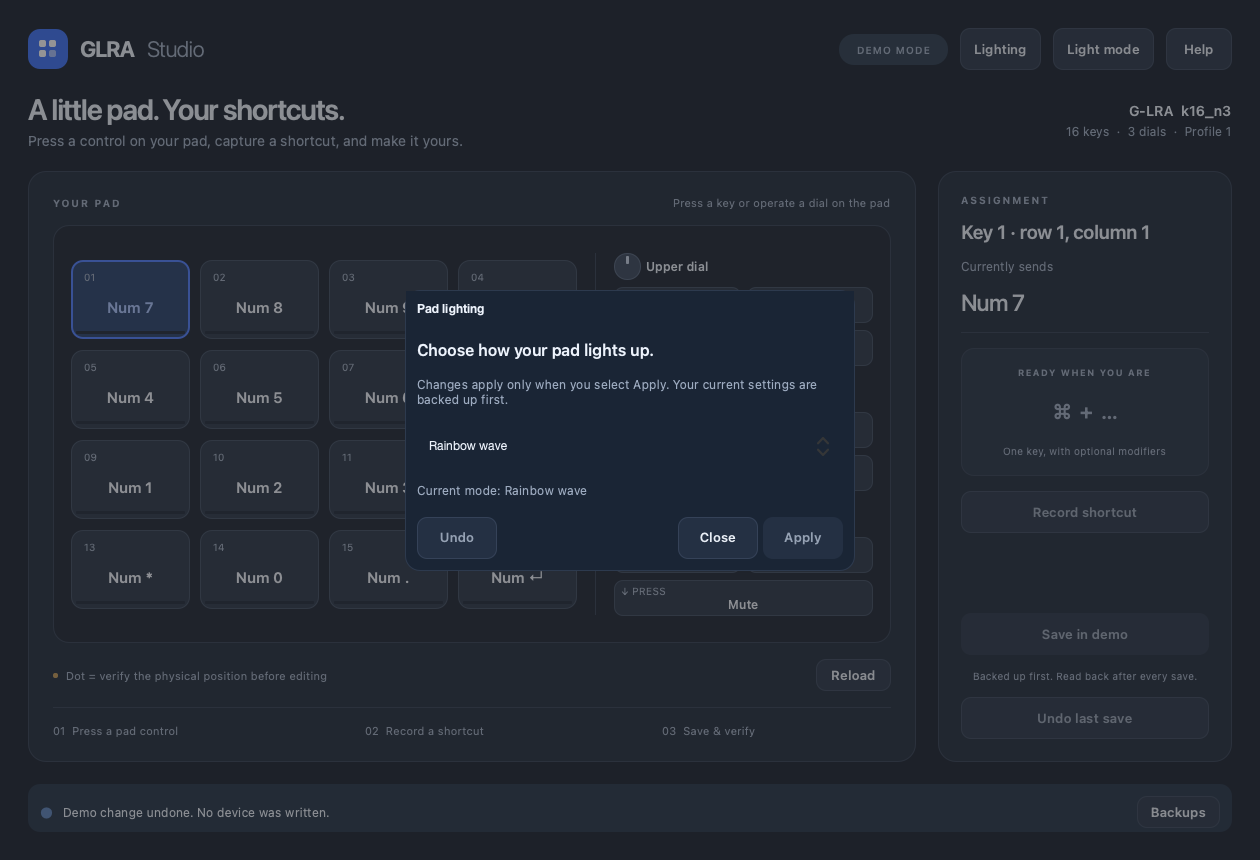
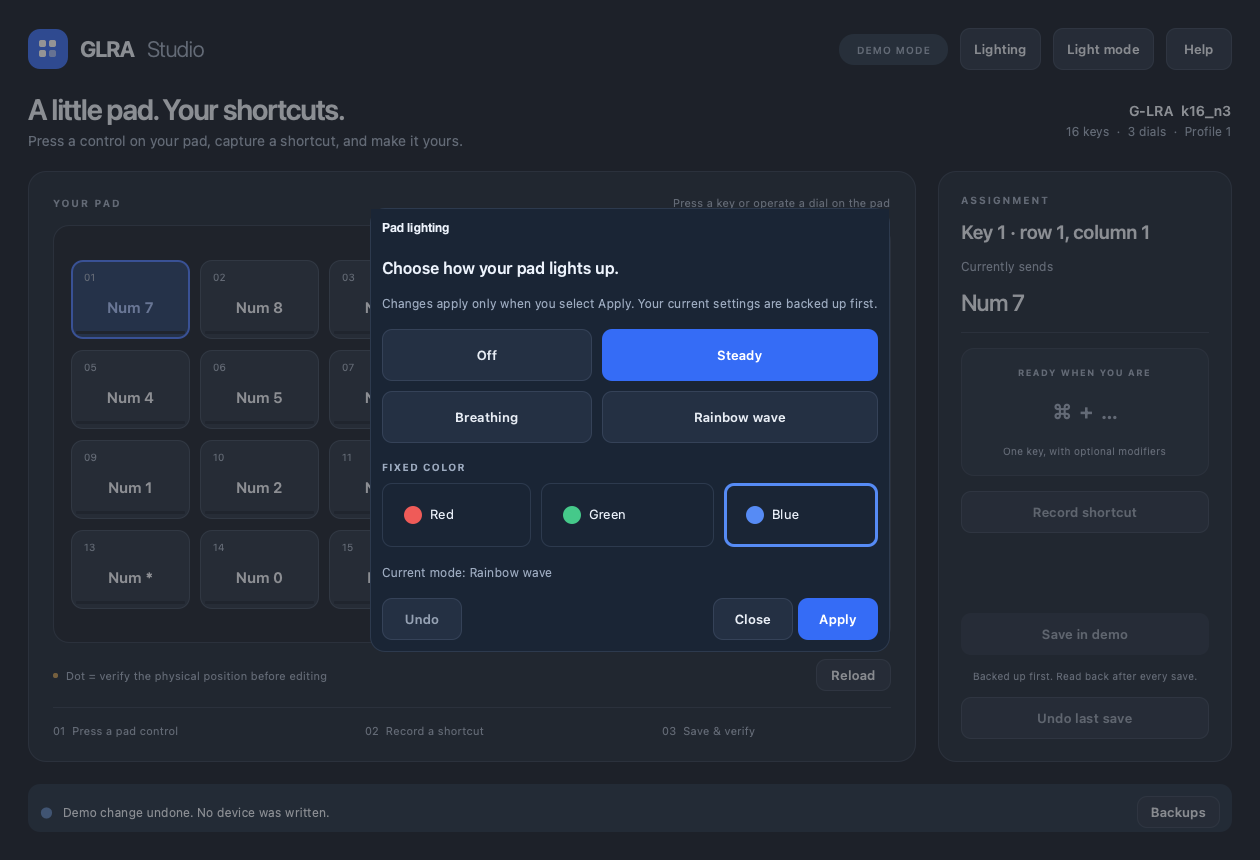
Use lighting mode buttons and add verified fixed-color controls

diff --git a/macropad/qml/Main.qml b/macropad/qml/Main.qml
@@ -168,12 +168,15 @@ ApplicationWindow {
     }
     Dialog {
         id: lightingDialog; objectName: "lightingDialog"; parent: Overlay.overlay
-        anchors.centerIn: parent; width: 450; modal: true; title: "Pad lighting"
+        anchors.centerIn: parent; width: 520; modal: true; title: "Pad lighting"
         property string loadedValue: ""
+        property int draftMode: -1
+        property int draftColor: -1
         function syncMode() {
             if (loadedValue !== root.data.lightValue) {
                 loadedValue = root.data.lightValue
-                lightMode.currentIndex = lightMode.indexOfValue(root.data.lightMode)
+                draftMode = root.data.lightMode
+                draftColor = root.data.lightColor
             }
         }
         visible: root.data.lightOpen; closePolicy: Popup.NoAutoClose
@@ -183,13 +186,51 @@ ApplicationWindow {
             spacing: 18
             Text { text: "Choose how your pad lights up."; color: root.ink; font.pixelSize: 16; font.weight: Font.DemiBold }
             Text { text: "Changes apply only when you select Apply. Your current settings are backed up first."; color: root.muted; font.pixelSize: 12; wrapMode: Text.WordWrap; Layout.fillWidth: true }
-            ComboBox {
-                id: lightMode; objectName: "lightingMode"; Layout.fillWidth: true
-                model: [{value: 0, name: "Off"}, {value: 1, name: "Steady"}, {value: 2, name: "Breathing"}, {value: 4, name: "Rainbow wave"}]
-                textRole: "name"; valueRole: "value"
-                currentIndex: -1
-                enabled: root.data.lightValue !== "" && !root.data.busy && root.data.writable
-                palette.text: root.ink; palette.buttonText: root.ink; palette.base: root.surface; palette.button: root.surface
+            GridLayout {
+                columns: 2; columnSpacing: 10; rowSpacing: 10; Layout.fillWidth: true
+                Repeater {
+                    model: [{value: 0, name: "Off"}, {value: 1, name: "Steady"}, {value: 2, name: "Breathing"}, {value: 4, name: "Rainbow wave"}]
+                    StudioButton {
+                        required property var modelData
+                        objectName: "lightingMode" + modelData.value
+                        text: modelData.name; dark: root.dark; primary: lightingDialog.draftMode === modelData.value
+                        Layout.fillWidth: true; implicitHeight: 52
+                        enabled: root.data.lightValue !== "" && !root.data.busy && root.data.writable
+                        onClicked: lightingDialog.draftMode = modelData.value
+                    }
+                }
+            }
+            ColumnLayout {
+                visible: lightingDialog.draftMode === 1; Layout.fillWidth: true; spacing: 10
+                Text { text: "FIXED COLOR"; color: root.muted; font.pixelSize: 10; font.weight: Font.Bold; font.letterSpacing: 1 }
+                RowLayout {
+                    Layout.fillWidth: true; spacing: 10
+                    Repeater {
+                        model: [{name: "Red", color: "#ef5b58"}, {name: "Green", color: "#45c98a"}, {name: "Blue", color: "#568bf5"}]
+                        Button {
+                            id: colorButton
+                            required property var modelData
+                            required property int index
+                            objectName: "lightingColor" + index
+                            Layout.fillWidth: true; implicitHeight: 64; focusPolicy: Qt.NoFocus
+                            enabled: root.data.lightValue !== "" && !root.data.busy && root.data.writable
+                            Accessible.name: modelData.name
+                            onClicked: lightingDialog.draftColor = index
+                            background: Rectangle {
+                                radius: 10; color: root.surface
+                                border.width: lightingDialog.draftColor === colorButton.index ? 3 : 1
+                                border.color: lightingDialog.draftColor === colorButton.index ? colorButton.modelData.color : root.line
+                            }
+                            contentItem: Row {
+                                spacing: 8
+                                leftPadding: 14; topPadding: 17
+                                Rectangle { width: 18; height: 18; radius: 9; color: colorButton.modelData.color }
+                                Text { text: colorButton.modelData.name; color: root.ink; font.pixelSize: 13 }
+                            }
+                        }
+                    }
+                }
+                Text { visible: lightingDialog.draftColor < 0; text: "Select a color, or keep the pad’s existing colors."; color: root.muted; font.pixelSize: 11 }
             }
             Text { text: root.data.error || (!root.data.connected ? "Reconnect your pad, then reopen Lighting." : root.data.busy ? "Working…" : root.data.lightValue ? "Current mode: " + root.data.lightModes.filter(function(m) { return m.value === root.data.lightMode })[0].name : "Reading lighting settings…"); color: root.data.error ? "#ce5f59" : root.muted; wrapMode: Text.WrapAnywhere; Layout.fillWidth: true; font.pixelSize: 12 }
             RowLayout {
@@ -197,7 +238,7 @@ ApplicationWindow {
                 StudioButton { objectName: "lightingUndo"; text: "Undo"; dark: root.dark; enabled: root.data.lightUndo && root.data.writable && !root.data.busy; onClicked: studio.undoLighting() }
                 Item { Layout.fillWidth: true }
                 StudioButton { text: "Close"; dark: root.dark; enabled: !root.data.busy; onClicked: studio.closeLighting() }
-                StudioButton { objectName: "lightingApply"; text: "Apply"; primary: true; dark: root.dark; enabled: root.data.lightValue !== "" && root.data.writable && !root.data.busy && lightMode.currentIndex >= 0 && lightMode.currentValue !== root.data.lightMode; onClicked: studio.saveLighting(lightMode.currentValue) }
+                StudioButton { objectName: "lightingApply"; text: "Apply"; primary: true; dark: root.dark; enabled: root.data.lightValue !== "" && root.data.writable && !root.data.busy && (lightingDialog.draftMode !== root.data.lightMode || (lightingDialog.draftMode === 1 && lightingDialog.draftColor >= 0 && lightingDialog.draftColor !== root.data.lightColor)); onClicked: studio.saveLighting(lightingDialog.draftMode, lightingDialog.draftColor) }
             }
         }
     }

diff --git a/tests/test_qml.py b/tests/test_qml.py
@@ -28,8 +28,17 @@ class QmlTests(unittest.TestCase):
         self.assertIsInstance(window, QQuickWindow)
         QTest.qWait(100)
 
+        def visual_item(parent, name):
+            if parent.objectName() == name:
+                return parent
+            for child in parent.childItems():
+                found = visual_item(child, name)
+                if found is not None:
+                    return found
+            return None
+
         def click(name):
-            item = window.findChild(QObject, name)
+            item = visual_item(window.contentItem(), name)
             self.assertIsNotNone(item)
             point = item.mapToScene(QPointF(item.width() / 2, item.height() / 2)).toPoint()
             QTest.mouseClick(window, Qt.LeftButton, Qt.NoModifier, point)
@@ -61,16 +70,22 @@ class QmlTests(unittest.TestCase):
             self.assertTrue(window.grabWindow().save(str(Path(output) / "screenshot-dark.png")))
         click("lightingButton")
         self.assertTrue(controller.light_open)
-        mode = window.findChild(QObject, "lightingMode")
-        self.assertIsNotNone(mode)
-        mode.setProperty("currentIndex", 1)
+        click("lightingMode1")
+        click("lightingColor0")
         controller.changed.emit()
         QTest.qWait(30)
-        self.assertEqual(mode.property("currentIndex"), 1)
+        dialog = window.findChild(QObject, "lightingDialog")
+        self.assertEqual(dialog.property("draftMode"), 1)
+        self.assertEqual(dialog.property("draftColor"), 0)
+        self.assertEqual(controller.ui["lightMode"], 4)
+        self.assertEqual(controller.ui["lightColor"], -1)
         click("lightingApply")
         self.assertEqual(controller.ui["lightMode"], 1)
+        self.assertEqual(controller.ui["lightColor"], 0)
         click("lightingUndo")
         self.assertEqual(controller.ui["lightMode"], 4)
+        click("lightingMode1")
+        click("lightingColor2")
         QTest.qWait(220)
         if output:
             self.assertTrue(

diff --git a/macropad/gui.py b/macropad/gui.py
@@ -124,6 +124,9 @@ class Controller(QObject):
             "lightValue": self.light_value,
             "lightMode": bytes.fromhex(self.light_value)[2] if self.light_value else -1,
             "lightUndo": self.light_undo,
+            "lightColor": lighting.color_index(bytes.fromhex(self.light_value))
+            if self.light_value
+            else -1,
             "lightModes": [{"value": k, "name": v} for k, v in lighting.MODES.items()],
             "demo": self.demo,
             "connected": self.connected,
@@ -340,8 +343,8 @@ class Controller(QObject):
             self.light_open = False
             self.changed.emit()
 
-    @Slot(int)
-    def saveLighting(self, mode):
+    @Slot(int, int)
+    def saveLighting(self, mode, color=-1):
         if (
             not self.light_open
             or not self.light_value
@@ -354,11 +357,13 @@ class Controller(QObject):
             return
         if self.demo:
             self.demo_light_undo = self.light_value
-            self.light_value = lighting.for_mode(bytes.fromhex(self.light_value), mode).hex()
+            self.light_value = lighting.for_selection(
+                bytes.fromhex(self.light_value), mode, color
+            ).hex()
             self.light_undo = True
         else:
             self.busy = True
-            self.worker.submit("lighting_save", mode, self.light_value)
+            self.worker.submit("lighting_save", mode, color, self.light_value)
         self.changed.emit()
 
     @Slot()

diff --git a/tests/test_lighting.py b/tests/test_lighting.py
@@ -74,3 +74,15 @@ class LightingTests(unittest.TestCase):
                 with self.assertRaises(RuntimeError):
                     lighting.write(r, {}, lighting.for_mode(r.light, 1), r.light.hex(), folder)
                 self.assertEqual(len(list(Path(folder).glob("*-lighting-error.json"))), 1)
+
+    def test_fixed_colors_match_hardware_verified_packets(self):
+        for index, hue in enumerate((0, 85, 170)):
+            value = lighting.for_selection(lighting.DEFAULT, 1, index)
+            self.assertEqual(value[2], 1)
+            self.assertEqual(value[6:11], bytes([1, 255, hue, 255, 255]))
+            self.assertEqual(lighting.color_index(value), index)
+        with self.assertRaises(ValueError):
+            lighting.for_selection(lighting.DEFAULT, 1, 7)
+
+    def test_color_choice_only_applies_in_steady(self):
+        self.assertEqual(lighting.for_selection(lighting.DEFAULT, 4, 0), lighting.DEFAULT)

diff --git a/macropad/lighting.py b/macropad/lighting.py
@@ -34,6 +34,22 @@ def for_mode(current, mode):
     return bytes(value)
 
 
+def color_index(value):
+    validate(value)
+    if value[6:8] == bytes([1, 255]) and value[9:11] == bytes([255, 255]):
+        return {0: 0, 85: 1, 170: 2}.get(value[8], -1)
+    return -1
+
+
+def for_selection(current, mode, color=-1):
+    if color not in (-1, 0, 1, 2):
+        raise ValueError("Unknown fixed color.")
+    value = bytearray(for_mode(current, mode))
+    if mode == 1 and color >= 0:
+        value[6:11] = bytes([1, 255, (0, 85, 170)[color], 255, 255])
+    return bytes(value)
+
+
 def write(reader, identity, value, expected, directory):
     value = validate(value)
     status, tables = snapshot(reader)

diff --git a/macropad/worker.py b/macropad/worker.py
@@ -213,8 +213,8 @@ class DeviceWorker(QThread):
                 old, expected = self.light_undo
                 value = bytes.fromhex(old)
             else:
-                mode, expected = args
-                value = lighting.for_mode(bytes.fromhex(expected), mode)
+                mode, color, expected = args
+                value = lighting.for_selection(bytes.fromhex(expected), mode, color)
             result = lighting.write(
                 self.reader, self.identity, value, expected, self.directory / "backups"
             )

diff --git a/README.md b/README.md
@@ -114,8 +114,9 @@ development. The remaining positions require this check.
 
 ## Pad lighting
 
-Open **Lighting** in the header, choose **Off**, **Steady**, **Breathing**, or
-**Rainbow wave**, then click **Apply**. **Undo** restores the previous lighting
+Open **Lighting** in the header and select a mode button: **Off**, **Steady**,
+**Breathing**, or **Rainbow wave**. In **Steady**, optional **Red**, **Green** and
+**Blue** buttons select a fixed color. Click **Apply** to save your selection. **Undo** restores the previous lighting
 configuration in the current connection session. Closing the popup without
 applying leaves the pad unchanged.
 
@@ -129,8 +130,8 @@ are unchanged. The firmware clears inactive parameters in Off mode; switching
 back on uses the tested default brightness and color settings. Undo restores
 the exact configuration from before the last change.
 
-Fixed red, green and blue in Steady mode have also passed hardware readback
-tests; color selection is not exposed in the popup yet. Additional effects,
+Fixed red, green and blue in Steady mode passed hardware readback tests and
+were visually confirmed on the pad. Additional effects,
 brightness controls, and persistence across a power cycle remain unvalidated.
 
 ## Compatibility

diff --git a/docs/protocol.md b/docs/protocol.md
@@ -100,4 +100,4 @@ Set payload byte 6 (single-color flag) to 1, byte 7 (custom-color index) to
 custom-color index of 0 to 255; send 255 to obtain exact readback.
 
 Every test preserved assignment and RGB memory and restored the original
-lighting afterward. The GUI does not expose color selection yet.
+lighting afterward. The Lighting popup exposes these three colors in Steady mode.
